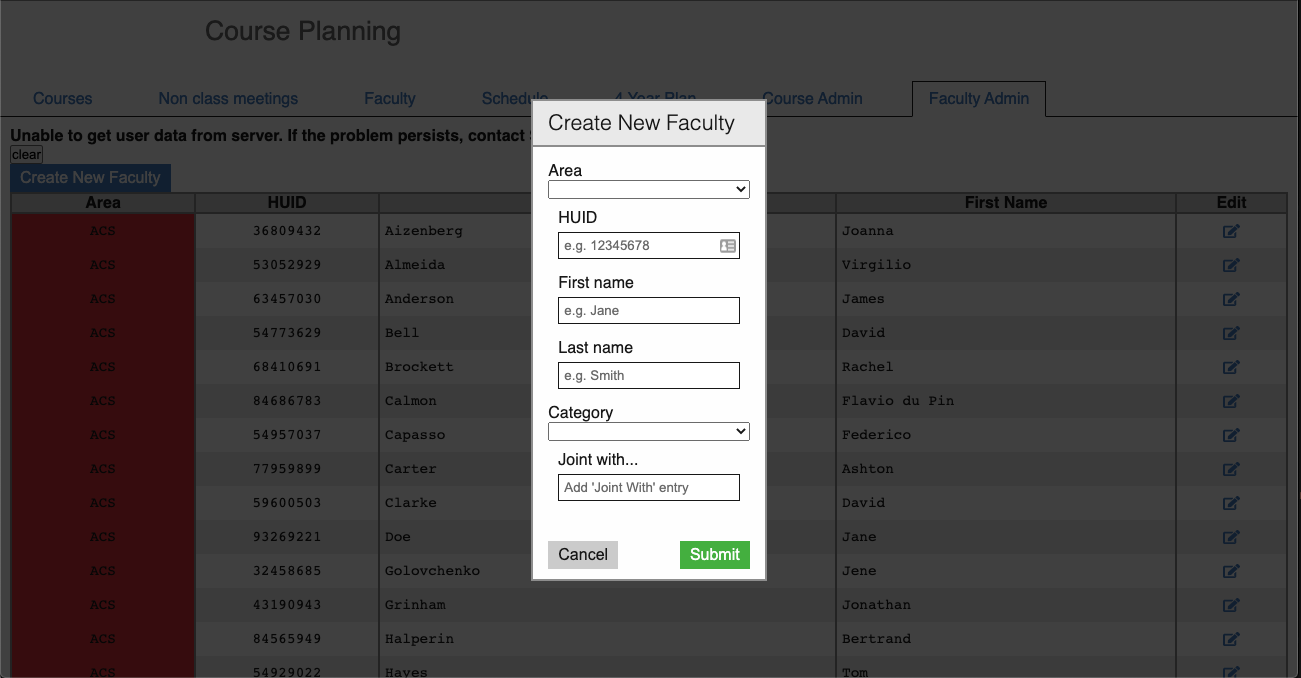
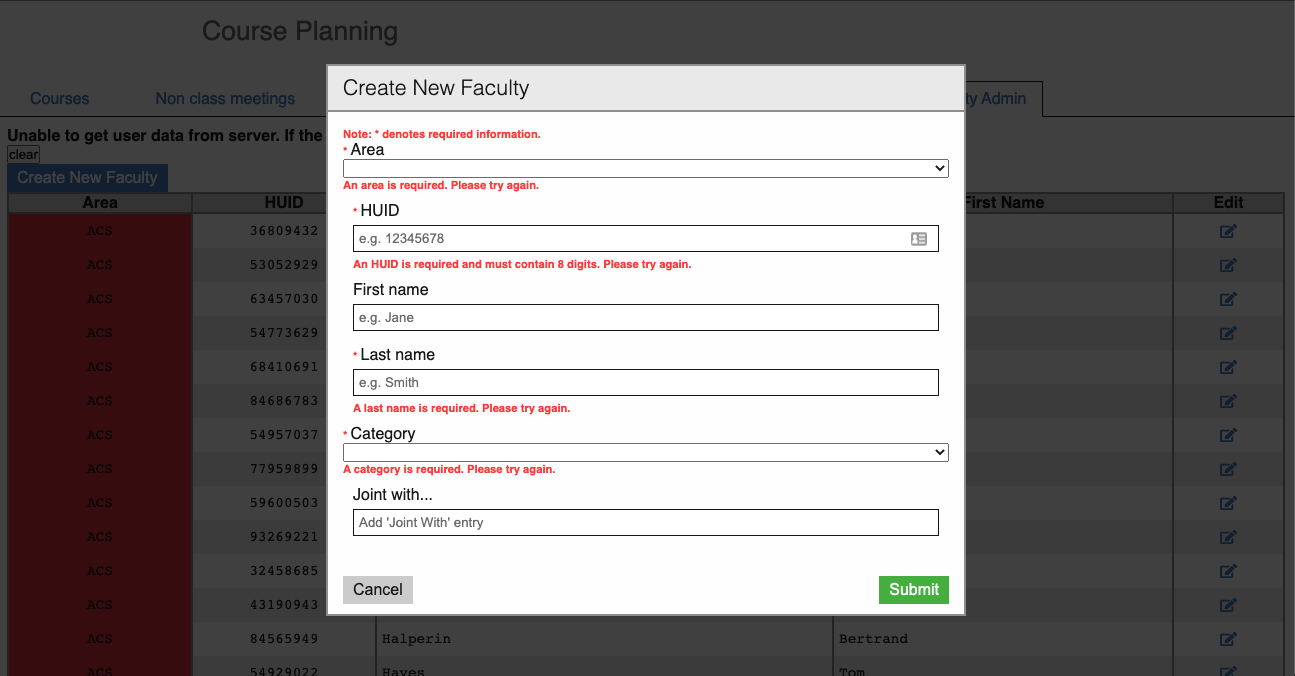
Kanban card 214, accessible modal
Proposed code

diff --git a/kanban_214/index.html b/kanban_214/index.html
@@ -5,9 +5,9 @@
     <title>Course Planning Tool</title>
     <style type="text/css">
 
-        /* Removed styles to facilitate code review */
-        
-            .dNEgKI {
+/* Removed styles to facilitate code review */
+
+        .dNEgKI {
             background-color: #fefefe;
             border: 2px solid #989898;
             display: -webkit-box;
@@ -21,8 +21,18 @@
             -webkit-justify-content: space-between;
             -ms-flex-pack: justify;
             justify-content: space-between;
-            max-width: 80%;
             visibility: inherit;
+/* Accessible width */
+            min-width: 40em;
+            max-width: 40em;
+        }
+/* Mark One alert style */
+        .bHXPte {
+            color: rgb(255, 64, 64);
+            font-family: "Open Sans", sans-serif;
+            font-size: 0.7em;
+            font-weight: 600;
+            grid-area: e / e / e / e;
         }
     </style>
 </head>
@@ -36,6 +46,7 @@
                 
                 <main class="sc-AxhUy dQsIDC">
 
+<!-- Accessible modal - refer to https://www.w3.org/TR/wai-aria-practices/examples/dialog-modal/dialog.html under 'Modal Dialog Example' to link this id to the content of the modal -->
                     <div class="create-faculty-button"><button id="createFaculty" class="sc-AxjAm bCnvY">Create New
                             Faculty</button></div>
                             
@@ -44,14 +55,24 @@
         </div>
     </div>
     <script type="text/javascript" src="/app.js"></script>
+
+<!-- Accessible modal - refer to https://www.w3.org/TR/wai-aria-practices/examples/dialog-modal/dialog.html under 'Modal Dialog Example' to place here an id referred by the 'create new faculty' button -->
     <div class="sc-fzoiQi dFhZIz modal-fade-enter-done">
         <div role="dialog" aria-labelledby="createFaculty" aria-modal="true" class="sc-fzqARJ dNEgKI">
             <div class="sc-fzoXWK eYoeXm">
                 <h2 class="sc-fznWqX sc-fzoNJl dyNgRc">Create New Faculty</h2>
             </div>
             <div class="sc-fzqNqU hyitPS">
+
+<!-- Required notice -->
+                <span role="alert" aria-live="assertive" aria-invalid="true" class="sc-EHOje bHXPte">
+                    Note: * denotes required information.
+                </span>
                 <form id="createFacultyForm">
                     <label for="createFacultyCourseArea">
+                        <span role="alert" aria-live="assertive" aria-invalid="true" class="sc-EHOje bHXPte">
+                            *
+                        </span>
                         Area
                         <select id="createFacultyCourseArea" name="createFacultyCourseArea" required=""
                             class="sc-fzqNJr epxibl">
@@ -69,12 +90,27 @@
                             <option value="MSMBA">MSMBA</option>
                             <option value="SEM">SEM</option>
                         </select>
+                            
+<!-- Error message from Mark One-->
+                        <span role="alert" aria-live="assertive" aria-invalid="true" class="sc-EHOje bHXPte">
+                            An area is required. Please try again.
+                        </span>
                     </label>
                     <label for="createFacultyHUID" class="sc-fzoXzr fnJVMi">
-                        <span class="sc-fzpjYC fYKimJ">HUID</span>
+                        <span class="sc-fzpjYC fYKimJ">
+                            <span role="alert" aria-live="assertive" aria-invalid="true" class="sc-EHOje bHXPte">
+                                *
+                            </span>
+                            HUID
+                        </span>
                         <input id="createFacultyHUID" name="createFacultyHUID" placeholder="e.g. 12345678" type="text"
                             label="HUID" required="" class="sc-fznxsB cqxvzo" value=""
[1 lines of base64/hex data omitted]
+                            
+<!-- Error message from Mark One-->
+                        <span role="alert" aria-live="assertive" aria-invalid="true" class="sc-EHOje bHXPte">
+                            An HUID is required and must contain 8 digits. Please try again.
+                        </span>
                     </label>
                     <label for="createFacultyFirstName" class="sc-fzoXzr fnJVMi">
                         <span class="sc-fzpjYC fYKimJ">First name</span>
@@ -82,11 +118,24 @@
                             label="First name" class="sc-fznxsB cqxvzo" value="">
                     </label>
                     <label for="createFacultyLastName" class="sc-fzoXzr fnJVMi">
-                        <span class="sc-fzpjYC fYKimJ">Last name</span>
+                        <span class="sc-fzpjYC fYKimJ">
+                            <span role="alert" aria-live="assertive" aria-invalid="true" class="sc-EHOje bHXPte">
+                                *
+                            </span>
+                            Last name
+                        </span>
                         <input id="createFacultyLastName" name="createFacultyLastName" placeholder="e.g. Smith" type="text"
                             label="Last name" required="" class="sc-fznxsB cqxvzo" value="">
+
+<!-- Error message from Mark One-->
+                        <span role="alert" aria-live="assertive" aria-invalid="true" class="sc-EHOje bHXPte">
+                            A last name is required. Please try again.
+                        </span>
                     </label>
                     <label for="createFacultyCategory">
+                        <span role="alert" aria-live="assertive" aria-invalid="true" class="sc-EHOje bHXPte">
+                            *
+                        </span>
                         Category
                         <select id="createFacultyCategory" name="createFacultyCategory" required="" class="sc-fzqNJr epxibl">
                             <option value=""></option>
@@ -94,6 +143,11 @@
                             <option value="NON_LADDER">Non-Ladder</option>
                             <option value="NON_SEAS_LADDER">Non-SEAS Ladder</option>
                         </select>
+                            
+<!-- Error message from Mark One-->
+                        <span role="alert" aria-live="assertive" aria-invalid="true" class="sc-EHOje bHXPte">
+                            A category is required. Please try again.
+                        </span>
                     </label>
                     <label for="createFacultyJointWith" class="sc-fzoXzr fnJVMi">
                         <span class="sc-fzpjYC fYKimJ">Joint with...</span>
